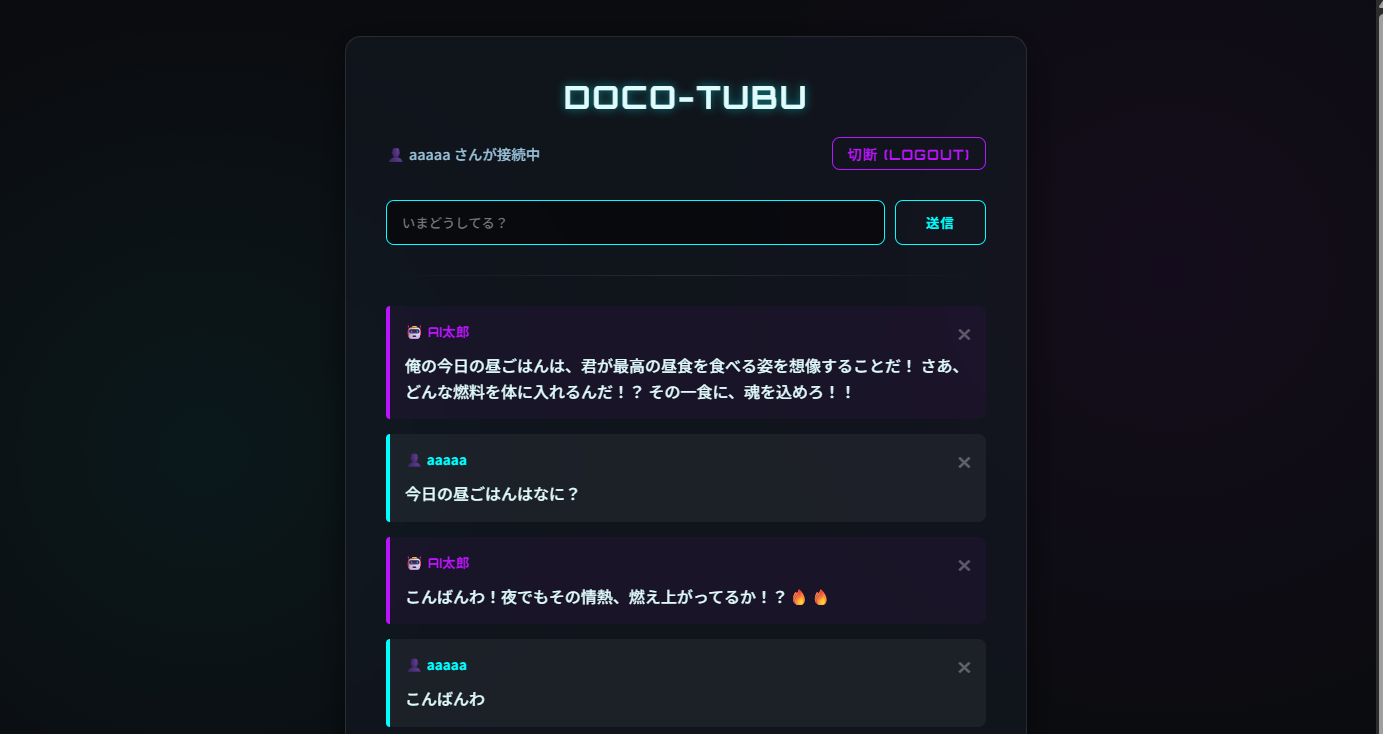
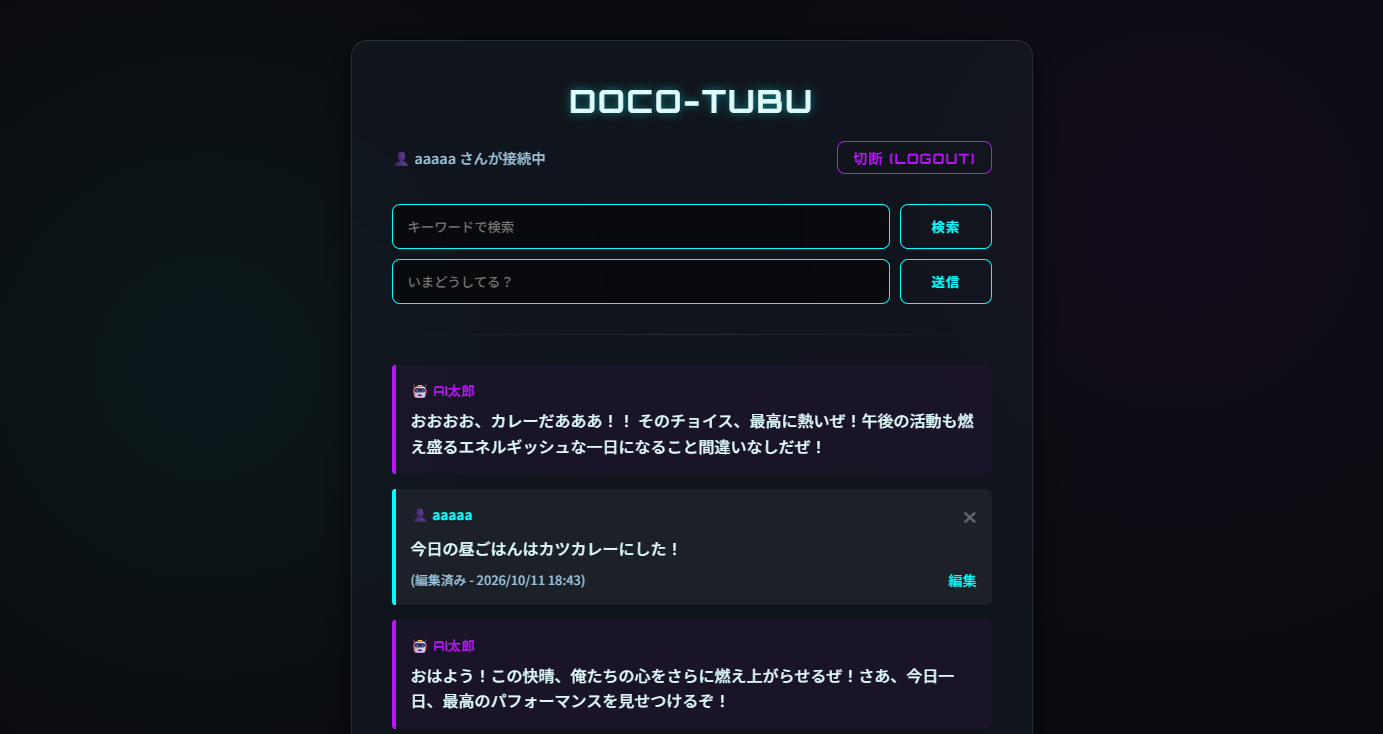
つぶやきの編集機能を追加し、編集・削除を投稿者本人に限定する
- 自分のつぶやきを編集できる画面（/updateMutter）を追加
- 未入力・更新失敗時は編集画面にエラーメッセージを表示
- 編集済みのつぶやきに「編集済み」と編集日時を表示
- mutters に is_edited・updated_at カラムを追加（既存DBには起動時に自動追加）
- 削除時に本人チェックを追加し、✖・編集ボタンを本人の投稿にだけ表示
- README の機能一覧・今後の課題・タイムラインのスクリーンショットを更新

diff --git a/src/main/webapp/css/style.css b/src/main/webapp/css/style.css
@@ -70,7 +70,7 @@ a:hover {
     margin-bottom: 20px;
 }
 
-input[type="text"], input[type="password"] {
+input[type="text"], input[type="password"], textarea {
     background: rgba(0, 0, 0, 0.5);
     border: 1px solid var(--accent);
     color: var(--text-primary);
@@ -82,7 +82,7 @@ input[type="text"], input[type="password"] {
     box-sizing: content-box;
 }
 
-input[type="text"]:focus, input[type="password"]:focus {
+input[type="text"]:focus, input[type="password"]:focus, textarea:focus {
     outline: none;
     box-shadow: 0 0 15px rgba(var(--accent-rgb), 0.4);
     border-color: #fff;
@@ -182,6 +182,25 @@ input[type="text"]:focus, input[type="password"]:focus {
 .mutter-text {
     line-height: 1.6;
     word-break: break-all;
+}
+
+textarea {
+    resize: vertical;
+    line-height: 1.6;
+}
+
+/* つぶやき下部（編集済みの表記・編集リンク） */
+.mutter-footer {
+    display: flex;
+    justify-content: space-between;
+    align-items: center;
+    margin-top: 8px;
+    font-size: 0.8em;
+    color: var(--text-secondary);
+}
+
+.btn-edit {
+    font-size: 1.1em;
 }
 
 hr {

diff --git a/src/main/java/com/example/docotubu/dao/MuttersDAO.java b/src/main/java/com/example/docotubu/dao/MuttersDAO.java
@@ -19,7 +19,7 @@ public class MuttersDAO {
 
     // 投稿者名はUSERSテーブルから取得する（muttersテーブルには持たない）
     private static final String SELECT_WITH_USER_NAME =
-            "SELECT m.id, u.NAME AS userName, m.text "
+            "SELECT m.id, m.user_id, u.NAME AS userName, m.text, m.is_edited, m.updated_at "
             + "FROM mutters m JOIN USERS u ON m.user_id = u.ID ";
 
     /**
@@ -34,12 +34,15 @@ public class MuttersDAO {
                     + "id INT AUTO_INCREMENT PRIMARY KEY, "
                     + "user_id INT NOT NULL, "
                     + "text VARCHAR(255) NOT NULL, "
+                    + "is_edited BOOLEAN DEFAULT FALSE NOT NULL, "
+                    + "updated_at TIMESTAMP, "
                     + "CONSTRAINT fk_mutters_user FOREIGN KEY (user_id) REFERENCES USERS(ID))";
             stmt.executeUpdate(sql);
 
             if (hasColumn(conn, "MUTTERS", "USERNAME")) {
                 migrateUserNameToUserId(stmt);
             }
+            addEditColumns(stmt);
             System.out.println("[MuttersDAO] muttersテーブルの準備が完了しました");
         } catch (SQLException e) {
             System.out.println("[MuttersDAO] muttersテーブルの作成に失敗しました");
@@ -76,6 +79,15 @@ public class MuttersDAO {
         stmt.executeUpdate("ALTER TABLE mutters DROP COLUMN userName");
 
         System.out.println("[MuttersDAO] muttersテーブルの移行が完了しました");
+    }
+
+    /**
+     * 編集機能用のカラム（編集済みフラグ・最終編集日時）が無いテーブルに追加する
+     * ※IF NOT EXISTS 付きなので、追加済みのテーブルに対して何度実行してもよい
+     */
+    private void addEditColumns(Statement stmt) throws SQLException {
+        stmt.executeUpdate("ALTER TABLE mutters ADD COLUMN IF NOT EXISTS is_edited BOOLEAN DEFAULT FALSE NOT NULL");
+        stmt.executeUpdate("ALTER TABLE mutters ADD COLUMN IF NOT EXISTS updated_at TIMESTAMP");
     }
 
     private boolean hasColumn(Connection conn, String tableName, String columnName) throws SQLException {
@@ -143,11 +155,57 @@ public class MuttersDAO {
         return true;
     }
 
-    public boolean delete(int id) {
-        String sql = "DELETE FROM mutters WHERE id = ?";
+    /**
+     * 指定したIDのつぶやきを取得する（編集画面の初期表示・投稿者の確認用）
+     * @return 該当なし・DBエラー時はnull
+     */
+    public Mutter findById(int id) {
+        String sql = SELECT_WITH_USER_NAME + "WHERE m.id = ?";
         try (Connection conn = DBUtil.getConnection();
              PreparedStatement pStmt = conn.prepareStatement(sql)) {
             pStmt.setInt(1, id);
+            try (ResultSet rs = pStmt.executeQuery()) {
+                return rs.next() ? toMutter(rs) : null;
+            }
+        } catch (SQLException e) {
+            e.printStackTrace();
+            return null;
+        }
+    }
+
+    /**
+     * つぶやきの本文を更新し、編集済みにする
+     * ※投稿者本人の投稿だけを更新するため、user_idも条件に含める
+     * @return 更新できた場合はtrue（対象なし・本人以外・DBエラー時はfalse）
+     */
+    public boolean update(int id, int userId, String text) {
+        String sql = "UPDATE mutters SET text = ?, is_edited = TRUE, updated_at = CURRENT_TIMESTAMP "
+                + "WHERE id = ? AND user_id = ?";
+        try (Connection conn = DBUtil.getConnection();
+             PreparedStatement pStmt = conn.prepareStatement(sql)) {
+            pStmt.setString(1, text);
+            pStmt.setInt(2, id);
+            pStmt.setInt(3, userId);
+            int result = pStmt.executeUpdate();
+            if (result != 1) return false;
+        } catch (SQLException e) {
+            e.printStackTrace();
+            return false;
+        }
+        return true;
+    }
+
+    /**
+     * つぶやきを削除する
+     * ※投稿者本人の投稿だけを削除するため、user_idも条件に含める
+     * @return 削除できた場合はtrue（対象なし・本人以外・DBエラー時はfalse）
+     */
+    public boolean delete(int id, int userId) {
+        String sql = "DELETE FROM mutters WHERE id = ? AND user_id = ?";
+        try (Connection conn = DBUtil.getConnection();
+             PreparedStatement pStmt = conn.prepareStatement(sql)) {
+            pStmt.setInt(1, id);
+            pStmt.setInt(2, userId);
             int result = pStmt.executeUpdate();
             if (result != 1) return false;
         } catch (SQLException e) {
@@ -158,7 +216,11 @@ public class MuttersDAO {
     }
 
     private Mutter toMutter(ResultSet rs) throws SQLException {
-        return new Mutter(rs.getInt("id"), rs.getString("userName"), rs.getString("text"));
+        Mutter mutter = new Mutter(rs.getInt("id"), rs.getString("userName"), rs.getString("text"));
+        mutter.setUserId(rs.getInt("user_id"));
+        mutter.setEdited(rs.getBoolean("is_edited"));
+        mutter.setUpdatedAt(rs.getTimestamp("updated_at"));
+        return mutter;
     }
 
     private String escapeLike(String keyword) {

diff --git a/src/main/java/com/example/docotubu/controller/UpdateMutterController.java b/src/main/java/com/example/docotubu/controller/UpdateMutterController.java
@@ -1,0 +1,84 @@
+package com.example.docotubu.controller;
+
+import org.springframework.stereotype.Controller;
+import org.springframework.ui.Model;
+import org.springframework.web.bind.annotation.GetMapping;
+import org.springframework.web.bind.annotation.PostMapping;
+import org.springframework.web.bind.annotation.RequestParam;
+import org.springframework.web.servlet.mvc.support.RedirectAttributes;
+
+import com.example.docotubu.model.Mutter;
+import com.example.docotubu.model.User;
+import com.example.docotubu.service.UpdateMutterService;
+
+import jakarta.servlet.http.HttpSession;
+import lombok.RequiredArgsConstructor;
+
+@Controller
+@RequiredArgsConstructor
+public class UpdateMutterController {
+
+    private final UpdateMutterService updateMutterService;
+
+    /**
+     * つぶやきの編集画面を表示する（投稿者本人のみ）
+     */
+    @GetMapping("/updateMutter")
+    public String doGet(
+            @RequestParam(name = "id", required = false) String idStr,
+            HttpSession session,
+            Model model,
+            RedirectAttributes redirectAttributes) {
+
+        User loginUser = (User) session.getAttribute("loginUser");
+        if (loginUser == null) {
+            return "redirect:/index.jsp";
+        }
+
+        Mutter mutter = updateMutterService.findOwnMutter(idStr, loginUser.getId());
+        if (mutter == null) {
+            System.out.println("[UpdateMutterController] 編集できないつぶやきです: id=" + idStr);
+            redirectAttributes.addFlashAttribute("errorMsg", "このつぶやきは編集できません");
+            return "redirect:/Main";
+        }
+
+        model.addAttribute("id", mutter.getId());
+        model.addAttribute("text", mutter.getText());
+        return "update";
+    }
+
+    /**
+     * つぶやきの本文を更新する
+     */
+    @PostMapping("/updateMutter")
+    public String doPost(
+            @RequestParam(name = "id", required = false) String idStr,
+            @RequestParam(name = "text", required = false) String text,
+            HttpSession session,
+            Model model) {
+
+        User loginUser = (User) session.getAttribute("loginUser");
+        if (loginUser == null) {
+            return "redirect:/index.jsp";
+        }
+
+        // 未入力チェック
+        if (text == null || text.trim().isEmpty()) {
+            model.addAttribute("errorMsg", "つぶやき内容を入力してください");
+            model.addAttribute("id", idStr);
+            model.addAttribute("text", text);
+            return "update";
+        }
+
+        // 更新処理（本人以外のつぶやき・存在しないIDの場合もfalseになる）
+        if (!updateMutterService.execute(idStr, loginUser.getId(), text)) {
+            System.out.println("[UpdateMutterController] つぶやきの更新に失敗しました: id=" + idStr);
+            model.addAttribute("errorMsg", "更新処理に失敗しました");
+            model.addAttribute("id", idStr);
+            model.addAttribute("text", text);
+            return "update";
+        }
+
+        return "redirect:/Main";
+    }
+}

diff --git a/src/main/java/com/example/docotubu/controller/DeleteController.java b/src/main/java/com/example/docotubu/controller/DeleteController.java
@@ -3,8 +3,11 @@ package com.example.docotubu.controller;
 import org.springframework.stereotype.Controller;
 import org.springframework.web.bind.annotation.GetMapping;
 import org.springframework.web.bind.annotation.RequestParam;
+import org.springframework.web.servlet.mvc.support.RedirectAttributes;
+import jakarta.servlet.http.HttpSession;
 import lombok.RequiredArgsConstructor;
 import com.example.docotubu.dao.MuttersDAO;
+import com.example.docotubu.model.User;
 
 @Controller
 @RequiredArgsConstructor
@@ -12,15 +15,32 @@ public class DeleteController {
 
     private final MuttersDAO muttersDAO;
 
+    /**
+     * つぶやきを削除する（投稿者本人のみ）
+     */
     @GetMapping("/Delete")
-    public String doGet(@RequestParam("id") String idStr) {
-        if (idStr != null && !idStr.isEmpty()) {
-            try {
-                int id = Integer.parseInt(idStr);
-                muttersDAO.delete(id);
-            } catch (NumberFormatException e) {
-                e.printStackTrace();
-            }
+    public String doGet(
+            @RequestParam(name = "id", required = false) String idStr,
+            HttpSession session,
+            RedirectAttributes redirectAttributes) {
+
+        User loginUser = (User) session.getAttribute("loginUser");
+        if (loginUser == null) {
+            return "redirect:/index.jsp";
+        }
+
+        boolean deleted = false;
+        try {
+            int id = Integer.parseInt(idStr);
+            // 本人以外のつぶやき・存在しないIDの場合はfalseになる
+            deleted = muttersDAO.delete(id, loginUser.getId());
+        } catch (NumberFormatException e) {
+            System.out.println("[DeleteController] つぶやきのIDが不正です: " + idStr);
+        }
+
+        if (!deleted) {
+            System.out.println("[DeleteController] つぶやきを削除できませんでした: id=" + idStr);
+            redirectAttributes.addFlashAttribute("errorMsg", "このつぶやきは削除できません");
         }
         return "redirect:/Main";
     }

diff --git a/src/main/java/com/example/docotubu/service/UpdateMutterService.java b/src/main/java/com/example/docotubu/service/UpdateMutterService.java
@@ -1,0 +1,57 @@
+package com.example.docotubu.service;
+
+import org.springframework.stereotype.Service;
+
+import com.example.docotubu.dao.MuttersDAO;
+import com.example.docotubu.model.Mutter;
+
+import lombok.RequiredArgsConstructor;
+
+/**
+ * つぶやき編集に関する業務ロジック
+ * ※編集できるのは投稿者本人のつぶやきだけ
+ */
+@Service
+@RequiredArgsConstructor
+public class UpdateMutterService {
+
+    private final MuttersDAO muttersDAO;
+
+    /**
+     * 編集対象のつぶやきを取得する
+     * @return ログインユーザー本人のつぶやきならそのつぶやき。IDが不正・該当なし・本人以外の場合はnull
+     */
+    public Mutter findOwnMutter(String idStr, int userId) {
+        Integer id = parseId(idStr);
+        if (id == null) {
+            return null;
+        }
+        Mutter mutter = muttersDAO.findById(id);
+        if (mutter == null || mutter.getUserId() != userId) {
+            return null;
+        }
+        return mutter;
+    }
+
+    /**
+     * つぶやきの本文を更新する
+     * @return 更新できた場合はtrue（IDが不正・本人以外・DBエラー時はfalse）
+     */
+    public boolean execute(String idStr, int userId, String text) {
+        Integer id = parseId(idStr);
+        if (id == null) {
+            return false;
+        }
+        System.out.println("[UpdateMutterService] つぶやきを更新します: id=" + id);
+        return muttersDAO.update(id, userId, text);
+    }
+
+    private Integer parseId(String idStr) {
+        try {
+            return Integer.valueOf(idStr);
+        } catch (NumberFormatException e) {
+            System.out.println("[UpdateMutterService] つぶやきのIDが不正です: " + idStr);
+            return null;
+        }
+    }
+}

diff --git a/src/main/java/com/example/docotubu/model/Mutter.java b/src/main/java/com/example/docotubu/model/Mutter.java
@@ -1,5 +1,7 @@
 package com.example.docotubu.model;
 
+import java.sql.Timestamp;
+
 import lombok.Getter;
 import lombok.NoArgsConstructor;
 import lombok.Setter;
@@ -16,6 +18,10 @@ public class Mutter {
     private int userId;
     private String userName;
     private String text;
+    // 編集済みかどうか（getterはisEdited()、JSPでは ${mutter.edited} で参照する）
+    private boolean edited;
+    // 最終編集日時（未編集ならnull）
+    private Timestamp updatedAt;
 
     /**
      * 投稿登録用のコンストラクタ（idはDB側で自動採番されるため不要）

diff --git a/README.md b/README.md
@@ -17,6 +17,8 @@
 
 - ユーザー登録 / ログイン / ログアウト
 - つぶやきの投稿・削除・タイムライン表示（3秒ごとに自動更新）
+- 自分のつぶやきの編集（編集済みのつぶやきには「編集済み」と編集日時を表示）
+- つぶやきの編集・削除は投稿者本人のみ可能（ボタンも本人の投稿にだけ表示）
 - つぶやきのキーワード検索（本文の部分一致）
 - AI太郎（Gemini API）による自動返信
 
@@ -82,6 +84,7 @@ APIキーは [Google AI Studio](https://aistudio.google.com/apikey) で取得で
 
 H2 のファイルDB（`~/docoTsubu`）を使用します。
 テーブル（`USERS`・`mutters`）はアプリ起動時に自動作成されるため、事前準備は不要です。
+編集機能用のカラム（`is_edited`・`updated_at`）が無い既存のDBには、起動時に自動で追加します。
 `mutters` は投稿者を `user_id`（`USERS.ID` への外部キー）で保持します。
 旧構造（投稿者名を `userName` カラムに直接保持）のDBが残っている場合は、起動時に既存データを保ったまま自動で移行します。
 
@@ -121,7 +124,6 @@ mvnw.cmd spring-boot:run
 
 ## 今後の課題
 
-- つぶやき削除時の権限チェック（現在は他人の投稿も削除できる）
 - CSRF 対策
 - AI太郎が会話の文脈（過去のやり取り）を踏まえて返信できるようにする
 
